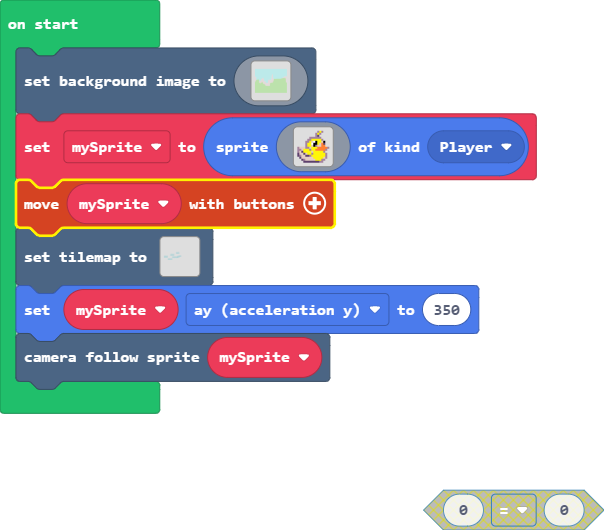
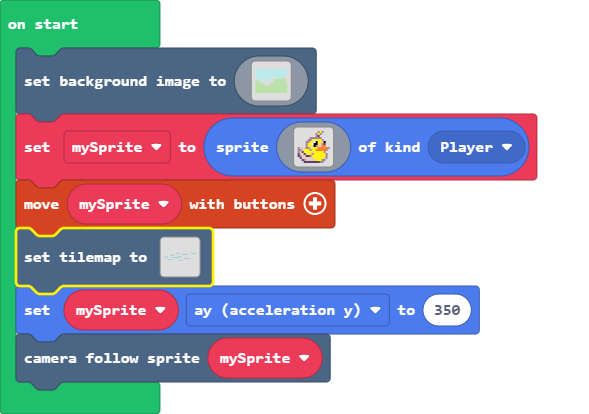
Update main.blocks, main.ts

diff --git a/main.ts b/main.ts
@@ -139,22 +139,22 @@ let mySprite = sprites.create(img`
     . . . c c c c c c c c b b . . . 
     `, SpriteKind.Player)
 controller.moveSprite(mySprite)
-tiles.setTilemap(tiles.createTilemap(hex`320010000000000000000000000000000000000000000000000000000000000000000000000000000000000000000000000000000000000000000000000000000000000000000000000000000000000000000000000000000000000000000000000000000000000000000000000000000000000000000000000000000000000000000000000000000000000000000000000000000000000000000000000000000000000000000000000000000001010101010000000000000000000000000000000000000000000000000000000000000000000000000000000000000000000000000000000000000000000000000000000000000000000000000000000000000000000000000000000000000000000000000000000000000000000000000000000000000000000000000000000000000000000000000000000001010101010100000000000000000000000000000000000000000000000000000000000000000000000000000000000000000000000000000000000000000000000000000000000000000000000000000000000000000000000000000000000000000000000000000000000000000000000001010100000000000000000000000000000000000000000000000101010101010000000000000000000000000000000101010000000000000000000000000000000000000000000000000000000000000000000000000000000101010101010101010000000000000000000000000000000000000000000000000000000000000000000000000000000000000000000000000000000000000000000000000000000000000000000000000000000000000000000000000000000000000000000000000000000000000000000000000000000000000000000000000000000000000000000000000000010101010101010000000000000000000000000000000000000000000000000000000000000000000000000000000000000000000000000000000000000000000000000000000000000000000000000000000000000000000000000000000000000000000000000000000000000000000000000000000000000000000000000000000000000000000000000000000000`, img`
+tiles.setTilemap(tiles.createTilemap(hex`320010000000000000000000000000000000000000000000000000000000000000000000000000000000000000000000000000000000000000000000000000000000000000000000000000000000000000000000000000000000000000000000000000000000000000000000000000000000000000000000000000000000000000000000000000000000000000000000000000000000000000000000000000000000000000000000000000000001010101010000000000000000000000000000000000000101010101010101000000000000000000000000000000000000000000000000000000000000000000000000000000000000000000000000000000000000000000000000000000000000000000000000000000000000010101010101010101000000000000000000000000000000000000000000000001010101010100000000000000000000000000000000000000000000000000000000000000000000000000000000000000000000000000000000000000000000000000000000000000000000000000000000000000000000000000000000000000000000000000000000000000000000000001010100000000000000000000000000000000000000000000000101010101010000000000000000000000000000000101010000000000000000000000000000000000000000000000000000000000000000000000000000000101010101010101010000000000000000000000000000000000000000000000000000000000000000000000000000000000000000000000000000000000000000000000010101010101010101010000000000000000000000000000000000000000000000000000000000000000000000000000000000000000000000000000000000000000000000000000000000010101010101010000000000000000000000000000000000000000000000000000000000000000000000000000000000000000000000000000000000000000000000000101010101000000000000000000000000000000000000000000000000000000000000000000000000000000000000000000000000000000000000000000000000000000000000000000000000`, img`
     ..................................................
     ..................................................
     ..................................................
-    ...................22222..........................
+    ...................22222..................22222222
     ..................................................
-    ..................................................
+    ............................222222222.............
     ..........222222..................................
     ..................................................
     ........................222.......................
     222222...............222..........................
     .............222222222............................
-    ..................................................
+    ...............................2222222222.........
     ..................................................
     ......2222222.....................................
-    ..................................................
+    .......................22222......................
     ..................................................
     `, [myTiles.transparency16,sprites.dungeon.collectibleInsignia], TileScale.Sixteen))
 mySprite.ay = 350
